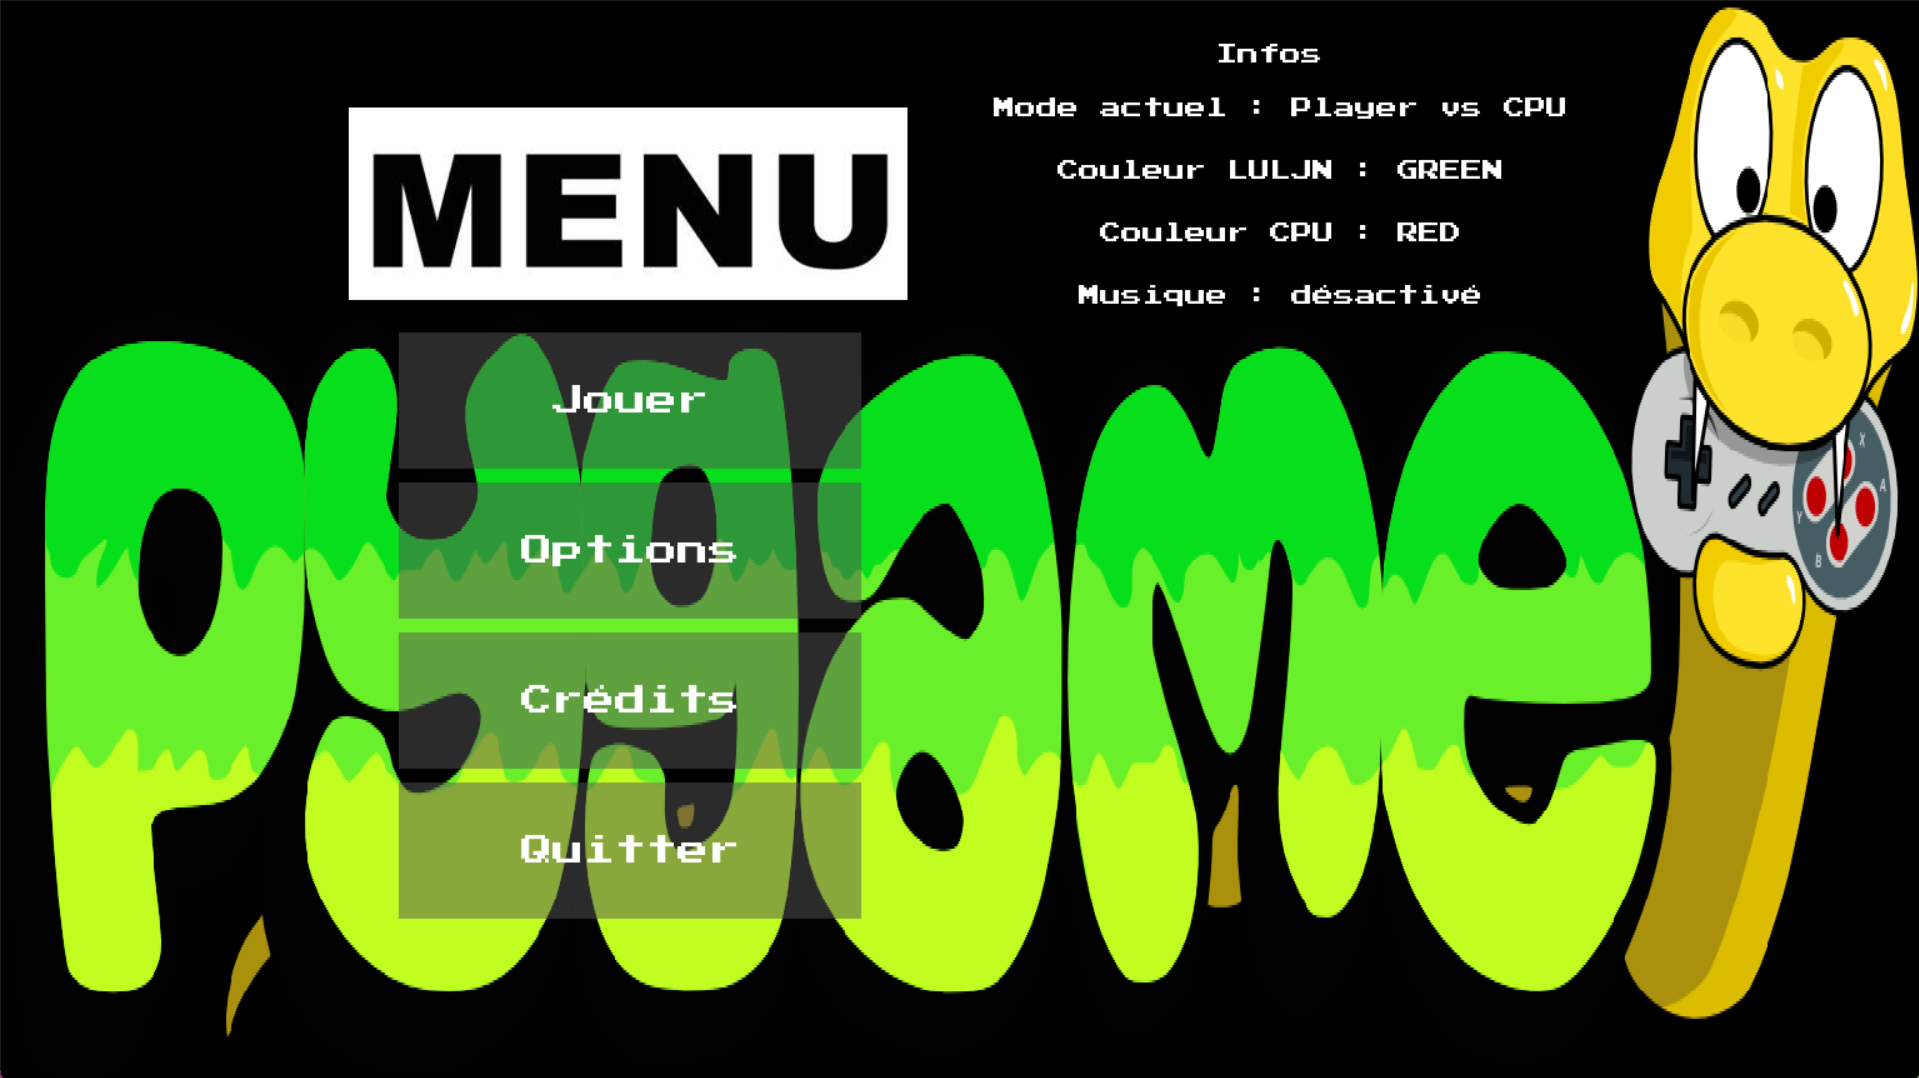
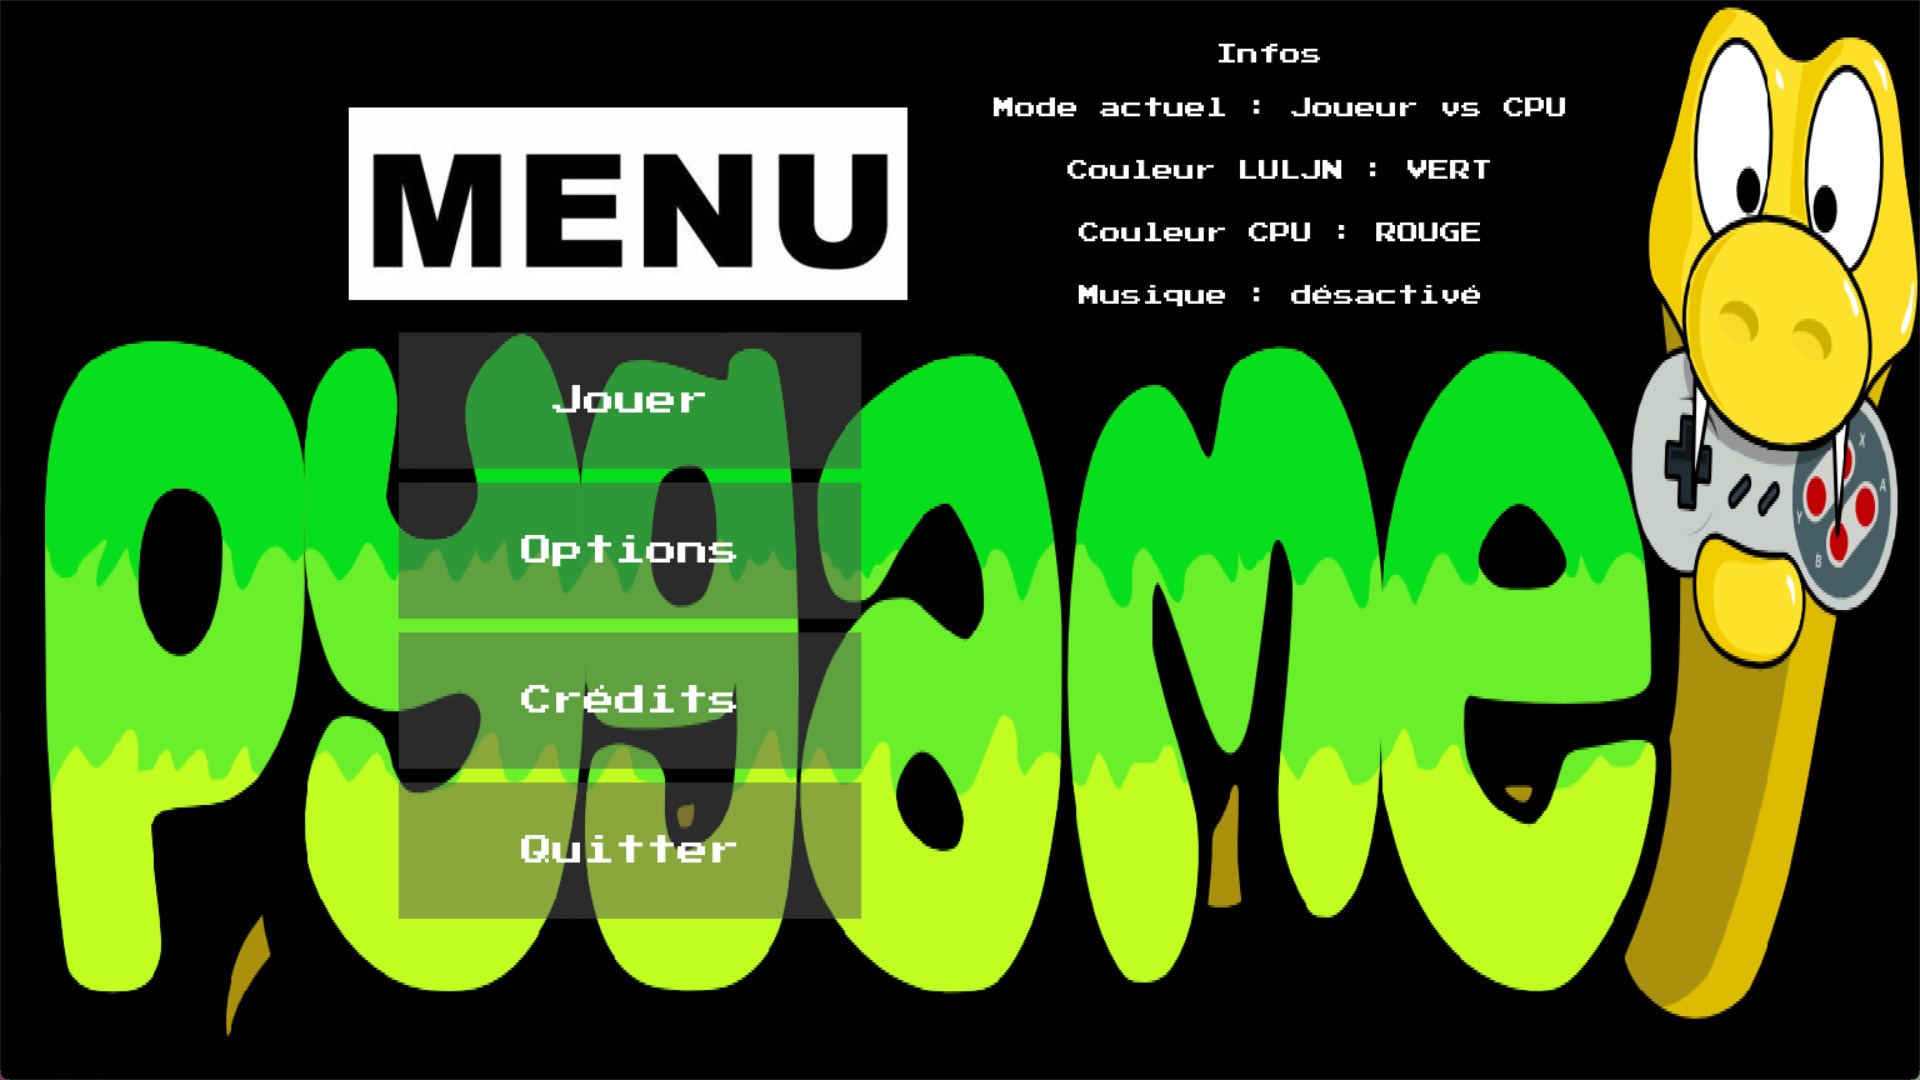
Code cleanned

diff --git a/src/model/minmax.py b/src/model/minmax.py
@@ -11,8 +11,6 @@ class MinMax :
     @staticmethod
     def minmax(cpu_pawns, player_pawns, squares_without_pawn, position_x, position_y, factory, forms, window) :
         
-        # configs = Config.loadConfig()
-        
         circles_id = [] # Id of player pawns.
         circles_cpu_id = [] # Id of cpu pawns.
         squares_without_pawn_id = [] # Id of empty squares.
@@ -75,8 +73,6 @@ class MinMax :
     @staticmethod
     def minmax1(cpu_pawns, player_pawns, squares_without_pawn, position_x, position_y, getAwinner, factory, forms, window) :
         
-        # configs = Config.loadConfig()
-        
         circles_id = [] # Id of player pawns.
         circles_cpu_id = [] # Id of cpu pawns.
         squares_without_pawn_id = [] # Id of empty squares.
@@ -106,8 +102,6 @@ class MinMax :
                         pawn.canMove = True
                         pawn.moveDown(position_y, pawn.square.getWidth())
                         pawn.canMove = False
-                        # Turn.setTurn(1)
-                        # print("nouveau tour : ", Turn.getTurn())
                         return None
                     
                     elif (pawn.square.id == Square.empty_square_id + 3):
@@ -115,8 +109,6 @@ class MinMax :
                         pawn.canMove = True
                         pawn.moveUp(position_y, pawn.square.getWidth())
                         pawn.canMove = False
-                        # Turn.setTurn(1)
-                        # print("nouveau tour : ", Turn.getTurn())
                         return None
                     
                     elif (pawn.square.id == Square.empty_square_id + 1):
@@ -124,8 +116,6 @@ class MinMax :
                         pawn.canMove = True
                         pawn.moveLeft(position_x, pawn.square.getWidth() + 10)
                         pawn.canMove = False
-                        # Turn.setTurn(1)
-                        # print("nouveau tour : ", Turn.getTurn())
                         return None
                     
                     elif (pawn.square.id == Square.empty_square_id - 1):
@@ -133,8 +123,6 @@ class MinMax :
                         pawn.canMove = True
                         pawn.moveRight(position_x, pawn.square.getWidth() + 10)
                         pawn.canMove = False
-                        # Turn.setTurn(1)
-                        # print("nouveau tour : ", Turn.getTurn())
                         return None
                     
                     else : 
@@ -143,16 +131,9 @@ class MinMax :
                         pawn.changeSquare(squares_without_pawn, new_square_id)
                         factory.transparentCircles(player_pawns, cpu_pawns, forms, window)
                         return None
-            
-            # Config.changeTurn(0)
-            # Turn.setTurn(1)
-            # print("nouveau tour : ", Turn.getTurn())
-            # return None
     
     @staticmethod
     def minmax2(cpu_pawns, player_pawns, squares_without_pawn, position_x, position_y, getAwinner, factory, forms, window) :
-        
-        # configs = Config.loadConfig()
         
         circles_id = [] # Id of player pawns.
         circles_cpu_id = [] # Id of cpu pawns.
@@ -183,8 +164,6 @@ class MinMax :
                         pawn.canMove = True
                         pawn.moveDown(position_y, pawn.square.getWidth())
                         pawn.canMove = False
-                        # Turn.setTurn(0)
-                        # print("nouveau tour : ", Turn.getTurn())
                         return None
                     
                     elif (pawn.square.id == Square.empty_square_id + 3):
@@ -192,8 +171,6 @@ class MinMax :
                         pawn.canMove = True
                         pawn.moveUp(position_y, pawn.square.getWidth())
                         pawn.canMove = False
-                        # Turn.setTurn(0)
-                        # print("nouveau tour : ", Turn.getTurn())
                         return None
                     
                     elif (pawn.square.id == Square.empty_square_id + 1):
@@ -201,8 +178,6 @@ class MinMax :
                         pawn.canMove = True
                         pawn.moveLeft(position_x, pawn.square.getWidth() + 10)
                         pawn.canMove = False
-                        # Turn.setTurn(0)
-                        # print("nouveau tour : ", Turn.getTurn())
                         return None
                     
                     elif (pawn.square.id == Square.empty_square_id - 1):
@@ -210,8 +185,6 @@ class MinMax :
                         pawn.canMove = True
                         pawn.moveRight(position_x, pawn.square.getWidth() + 10)
                         pawn.canMove = False
-                        # Turn.setTurn(0)
-                        # print("nouveau tour : ", Turn.getTurn())
                         return None
                     
                     else : 
@@ -220,8 +193,3 @@ class MinMax :
                         pawn.changeSquare(squares_without_pawn, new_square_id)
                         factory.transparentCircles(player_pawns, cpu_pawns, forms, window)
                         return None
-            
-            # Config.changeTurn(0)
-            # Turn.setTurn(0)
-            # print("nouveau tour : ", Turn.getTurn())
-            # return None

diff --git a/src/model/circle.py b/src/model/circle.py
@@ -3,7 +3,6 @@ import pygame
 
 from model.form import Form
 from model.square import Square
-from model.turn import Turn
 
 
 
@@ -16,9 +15,6 @@ class Circle(Form) :
         self.square = square
         self.radius = radius
         self.canMove = False
-        # self.radius = 30
-        # self.position = position
-        # self.position = pygame.Vector2(self.window.getScreenWidth() / 2, self.window.getScreenHeight() / 2)
     
     def drawSprite(self) :
         
@@ -60,14 +56,11 @@ class Circle(Form) :
                 
                 self.moveRight(position_x, distance)
             
-            # Config.changeTurn(1)
-            # Turn.setTurn(1)
-            # print("nouveau tour : ", Turn.getTurn())
             return None
     
     def moveUp(self, position_y, square_width) : 
         
-        #If the square is not on the first line, we can move up.
+        # If the square is not on the first line, we can move up.
         if (self.square.id != 0 and self.square.id != 1 and self.square.id != 2 
             and Square.empty_square_id == self.square.id - 3) :
             
@@ -85,7 +78,7 @@ class Circle(Form) :
     
     def moveDown(self, position_y, square_width) : 
         
-        #If the square is not on the 3rd line, we can move down.
+        # If the square is not on the 3rd line, we can move down.
         if (self.square.id != 6 and self.square.id != 7 and self.square.id != 8 
             and Square.empty_square_id == self.square.id + 3) :
             
@@ -103,7 +96,7 @@ class Circle(Form) :
     
     def moveLeft(self, position_x, distance) :
         
-        #If the square is not on the 1st column, we can move left.
+        # If the square is not on the 1st column, we can move left.
         if (self.square.id != 0 and self.square.id != 3 and self.square.id != 6 
             and Square.empty_square_id == self.square.id - 1) :
             
@@ -121,7 +114,7 @@ class Circle(Form) :
     
     def moveRight(self, position_x, distance) :
         
-        #If the square is not on the 3rd column, we can move right.
+        # If the square is not on the 3rd column, we can move right.
         if (self.square.id != 2 and self.square.id != 5 and self.square.id != 8 
             and Square.empty_square_id == self.square.id + 1) :
             
@@ -156,8 +149,5 @@ class Circle(Form) :
                     self.square = pawn.square
                     self.position.x = pawn.square.position.x + (self.square.getWidth() / 2)
                     self.position.y = pawn.square.position.y + (self.square.getHeigth() / 2)
-                    # Config.changeTurn(1)
-                    # Turn.setTurn(1)
-                    # print("nouveau tour : ", Turn.getTurn())
         
         return None

diff --git a/src/controller/controller.py b/src/controller/controller.py
@@ -353,15 +353,19 @@ class Controller :
         
         if self.configs[3] == "1" :
             
-            self.window.displayTextOnTheView("Mode actuel : Player vs CPU", 17, (self.window.getScreenWidth() / 1.5, self.window.getScreenHeight() / 10))
-            self.window.displayTextOnTheView(f"Couleur {self.configs[0]} : {self.configs[1]}", 17, (self.window.getScreenWidth() / 1.5, (self.window.getScreenHeight() / 10) + 50))
-            self.window.displayTextOnTheView(f"Couleur CPU : {self.configs[2]}", 17, (self.window.getScreenWidth() / 1.5, (self.window.getScreenHeight() / 10) + 100))
+            color_player = "VERT" if self.configs[1] == "GREEN" else "ROUGE"
+            color_cpu = "ROUGE" if self.configs[2] == "RED" else "VERT"
+            self.window.displayTextOnTheView("Mode actuel : Joueur vs CPU", 17, (self.window.getScreenWidth() / 1.5, self.window.getScreenHeight() / 10))
+            self.window.displayTextOnTheView(f"Couleur {self.configs[0]} : {color_player}", 17, (self.window.getScreenWidth() / 1.5, (self.window.getScreenHeight() / 10) + 50))
+            self.window.displayTextOnTheView(f"Couleur CPU : {color_cpu}", 17, (self.window.getScreenWidth() / 1.5, (self.window.getScreenHeight() / 10) + 100))
         
         elif self.configs[3] == "2" :
             
+            color_cpu_1 = "VERT" if self.configs[1] == "GREEN" else "ROUGE"
+            color_cpu_2 = "ROUGE" if self.configs[2] == "RED" else "VERT"
             self.window.displayTextOnTheView("Mode actuel : CPU_1 vs CPU_2", 17, (self.window.getScreenWidth() / 1.5, self.window.getScreenHeight() / 10))
-            self.window.displayTextOnTheView(f"Couleur CPU_1 : {self.configs[1]}", 17, (self.window.getScreenWidth() / 1.5, (self.window.getScreenHeight() / 10) + 50))
-            self.window.displayTextOnTheView(f"Couleur CPU_2 : {self.configs[2]}", 17, (self.window.getScreenWidth() / 1.5, (self.window.getScreenHeight() / 10) + 100))
+            self.window.displayTextOnTheView(f"Couleur CPU_1 : {color_cpu_1}", 17, (self.window.getScreenWidth() / 1.5, (self.window.getScreenHeight() / 10) + 50))
+            self.window.displayTextOnTheView(f"Couleur CPU_2 : {color_cpu_2}", 17, (self.window.getScreenWidth() / 1.5, (self.window.getScreenHeight() / 10) + 100))
         
         if self.configs[4] == "ON" :
             
@@ -444,7 +448,7 @@ class Controller :
             
             if(self.game_status == GameStatus.phase_2.value) :
                 
-                self.window.clock.tick(5)
+                self.window.clock.tick(10)
                 
                 if Turn.getTurn() == 0 :
                     

diff --git a/src/model/square.py b/src/model/square.py
@@ -20,9 +20,6 @@ class Square(Form) :
         self.color = color
         self.image = None
         self.canMove = False
-        # self.width = self.window.getScreenWidth() / 16
-        # self.height = self.window.getScreenHeight() / 10
-        # self.position = pygame.Vector2((self.window.getScreenWidth() / 2) -  self.width / 2 , (self.window.getScreenHeight() / 2) - self.height /2)
     
     def drawSprite(self) :
         
